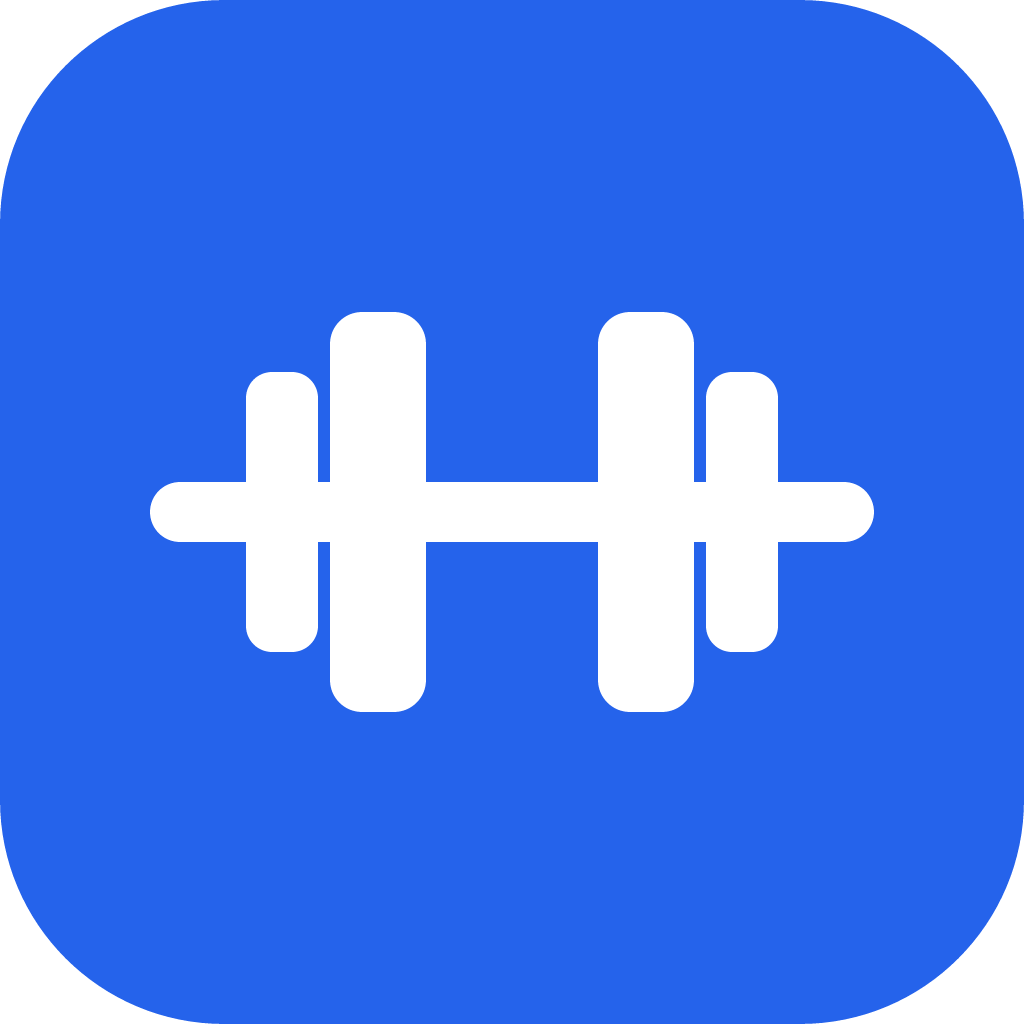
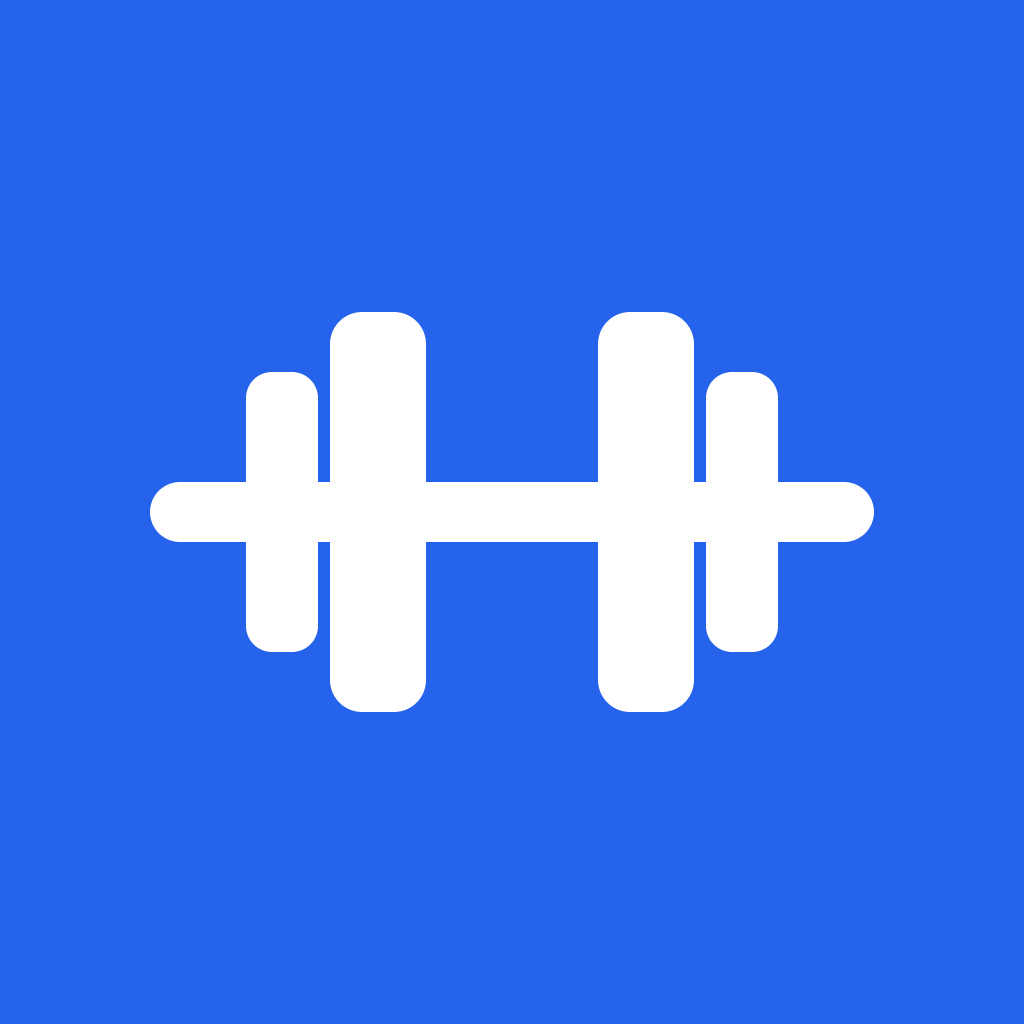
fix: navigation theme via expo-router, single tabs instance after a session, safe-area, image backdrop and polish

diff --git a/src/theme/ThemeProvider.tsx b/src/theme/ThemeProvider.tsx
@@ -1,7 +1,7 @@
 import { createContext, ReactNode, useContext, useEffect, useMemo, useState } from 'react';
-import { useColorScheme } from 'react-native';
+import { Appearance, useColorScheme } from 'react-native';
 import { StatusBar } from 'expo-status-bar';
-import { DarkTheme, DefaultTheme, ThemeProvider as NavigationThemeProvider } from '@react-navigation/native';
+import { DarkTheme, DefaultTheme, ThemeProvider as NavigationThemeProvider } from 'expo-router';
 import { ColorTokens, darkColors, lightColors } from './colors';
 import { loadThemePreference, resolveScheme, saveThemePreference, ThemePreference } from './preference';
 
@@ -22,6 +22,14 @@ export function ThemeProvider({ children }: { children: ReactNode }) {
     loadThemePreference().then(setPreferenceState);
   }, []);
 
+  // Makes native Alerts and the keyboard follow the in-app choice; null restores the system scheme.
+  useEffect(() => {
+    if (typeof Appearance.setColorScheme === 'function') {
+      // The installed typings omit null, which the runtime accepts to restore the system scheme.
+      Appearance.setColorScheme((preference === 'system' ? null : preference) as any);
+    }
+  }, [preference]);
+
   const scheme = resolveScheme(preference, system === 'light' || system === 'dark' ? system : null);
   const colors = scheme === 'dark' ? darkColors : lightColors;
 
@@ -38,19 +46,21 @@ export function ThemeProvider({ children }: { children: ReactNode }) {
     [colors, scheme, preference]
   );
 
-  const base = scheme === 'dark' ? DarkTheme : DefaultTheme;
-  const navigationTheme = {
-    ...base,
-    colors: {
-      ...base.colors,
-      primary: colors.accent,
-      background: colors.background,
-      card: colors.surface,
-      text: colors.text,
-      border: colors.border,
-      notification: colors.danger,
-    },
-  };
+  const navigationTheme = useMemo(() => {
+    const base = scheme === 'dark' ? DarkTheme : DefaultTheme;
+    return {
+      ...base,
+      colors: {
+        ...base.colors,
+        primary: colors.accent,
+        background: colors.background,
+        card: colors.surface,
+        text: colors.text,
+        border: colors.border,
+        notification: colors.danger,
+      },
+    };
+  }, [scheme, colors]);
 
   return (
     <ThemeContext.Provider value={value}>

diff --git a/src/components/ui/Screen.tsx b/src/components/ui/Screen.tsx
@@ -1,15 +1,19 @@
 import { ReactNode, useMemo } from 'react';
 import { ScrollView, StyleSheet, View } from 'react-native';
+import { useSafeAreaInsets } from 'react-native-safe-area-context';
 import { useTheme } from '../../theme/ThemeProvider';
 
 interface Props {
   children: ReactNode;
   scroll?: boolean;
   padded?: boolean;
+  /** Reserve the bottom safe area; for screens outside the tab bar, which already handles it. */
+  safeBottom?: boolean;
 }
 
-export function Screen({ children, scroll = false, padded = true }: Props) {
+export function Screen({ children, scroll = false, padded = true, safeBottom = false }: Props) {
   const { colors } = useTheme();
+  const insets = useSafeAreaInsets();
   const styles = useMemo(
     () =>
       StyleSheet.create({
@@ -22,10 +26,17 @@ export function Screen({ children, scroll = false, padded = true }: Props) {
 
   if (scroll) {
     return (
-      <ScrollView style={styles.container} contentContainerStyle={[styles.content, padded && styles.padded]}>
+      <ScrollView
+        style={styles.container}
+        contentContainerStyle={[styles.content, padded && styles.padded, safeBottom && { paddingBottom: insets.bottom }]}
+      >
         {children}
       </ScrollView>
     );
   }
-  return <View style={[styles.container, padded && styles.padded]}>{children}</View>;
+  return (
+    <View style={[styles.container, padded && styles.padded, safeBottom && { paddingBottom: insets.bottom }]}>
+      {children}
+    </View>
+  );
 }

diff --git a/app/(app)/(tabs)/settings/index.tsx b/app/(app)/(tabs)/settings/index.tsx
@@ -114,7 +114,13 @@ export default function SettingsScreen() {
           <AppText variant="heading" style={styles.title}>
             Recordatorio de entrenamiento
           </AppText>
-          <Switch disabled={!loaded} value={settings.trainingEnabled} onValueChange={(v) => toggle('trainingEnabled', v)} />
+          <Switch
+            disabled={!loaded}
+            trackColor={{ false: colors.surfaceMuted, true: colors.accent }}
+            thumbColor={colors.onDark}
+            value={settings.trainingEnabled}
+            onValueChange={(v) => toggle('trainingEnabled', v)}
+          />
         </View>
         <AppText variant="muted">Te avisa los días que toca entrenar, si todavía no lo hiciste.</AppText>
       </Card>
@@ -124,7 +130,13 @@ export default function SettingsScreen() {
           <AppText variant="heading" style={styles.title}>
             Racha en riesgo
           </AppText>
-          <Switch disabled={!loaded} value={settings.streakEnabled} onValueChange={(v) => toggle('streakEnabled', v)} />
+          <Switch
+            disabled={!loaded}
+            trackColor={{ false: colors.surfaceMuted, true: colors.accent }}
+            thumbColor={colors.onDark}
+            value={settings.streakEnabled}
+            onValueChange={(v) => toggle('streakEnabled', v)}
+          />
         </View>
         <AppText variant="muted">Te avisa el sábado si todavía no entrenaste en la semana.</AppText>
       </Card>

diff --git a/app/_layout.tsx b/app/_layout.tsx
@@ -1,6 +1,7 @@
 import { ReactNode, useEffect } from 'react';
+import { View } from 'react-native';
 import { Slot, useRouter, useSegments } from 'expo-router';
-import { SafeAreaProvider, SafeAreaView } from 'react-native-safe-area-context';
+import { SafeAreaProvider } from 'react-native-safe-area-context';
 import { GestureHandlerRootView } from 'react-native-gesture-handler';
 import { useAuthSession } from '../src/hooks/useAuthSession';
 import { initDatabase, getDatabase } from '../src/lib/sqlite/db';
@@ -15,9 +16,7 @@ initDatabase();
 function ThemedRoot({ children }: { children: ReactNode }) {
   const { colors } = useTheme();
   return (
-    <SafeAreaView style={{ flex: 1, backgroundColor: colors.background }} edges={['bottom']}>
-      {children}
-    </SafeAreaView>
+    <View style={{ flex: 1, backgroundColor: colors.background }}>{children}</View>
   );
 }
 
@@ -52,7 +51,7 @@ export default function RootLayout() {
   useEffect(() => {
     setupNotifications().catch((err) => console.warn('Could not set up notifications', err));
     const subscription = Notifications.addNotificationResponseReceivedListener(() => {
-      router.navigate('/(app)/(tabs)' as any);
+      router.dismissTo('/(app)/(tabs)' as any);
     });
     return () => subscription.remove();
   }, []);

diff --git a/src/theme/colors.ts b/src/theme/colors.ts
@@ -17,18 +17,19 @@ export interface ColorTokens {
   overlay: string;
   scrim: string;
   onDark: string;
+  imageBackdrop: string;
 }
 
 export const lightColors: ColorTokens = {
   background: '#F7F8FA',
   surface: '#FFFFFF',
-  surfaceMuted: '#EEF1F5',
+  surfaceMuted: '#F6F7F9',
   border: '#DDE2E8',
   text: '#111827',
   textMuted: '#6B7280',
   accent: '#2563EB',
   onAccent: '#FFFFFF',
-  accentMuted: '#DBEAFE',
+  accentMuted: '#EFF6FF',
   success: '#107A38',
   successMuted: '#F0FDF4',
   danger: '#C52222',
@@ -38,18 +39,19 @@ export const lightColors: ColorTokens = {
   overlay: 'rgba(0,0,0,0.3)',
   scrim: 'rgba(0,0,0,0.85)',
   onDark: '#FFFFFF',
+  imageBackdrop: '#FFFFFF',
 };
 
 export const darkColors: ColorTokens = {
   background: '#0B0F14',
   surface: '#151A21',
-  surfaceMuted: '#1E252E',
+  surfaceMuted: '#181E26',
   border: '#2A323D',
   text: '#F3F4F6',
   textMuted: '#9CA3AF',
   accent: '#3B82F6',
   onAccent: '#0B0F14',
-  accentMuted: '#1E3A5F',
+  accentMuted: '#0D1D33',
   success: '#22C55E',
   successMuted: '#052E1A',
   danger: '#F87171',
@@ -59,4 +61,5 @@ export const darkColors: ColorTokens = {
   overlay: 'rgba(0,0,0,0.6)',
   scrim: 'rgba(0,0,0,0.85)',
   onDark: '#FFFFFF',
+  imageBackdrop: '#FFFFFF',
 };

diff --git a/app/(app)/(tabs)/history/[sessionId].tsx b/app/(app)/(tabs)/history/[sessionId].tsx
@@ -24,6 +24,9 @@ export default function SessionHistoryDetail() {
   if (isLoading && !detail) {
     return (
       <Screen>
+        <Pressable onPress={() => router.back()} hitSlop={12} style={styles.backRow}>
+          <AppText style={styles.back}>←</AppText>
+        </Pressable>
         <View style={styles.centered}>
           <ActivityIndicator color={colors.accent} />
         </View>
@@ -34,6 +37,9 @@ export default function SessionHistoryDetail() {
   if (!detail) {
     return (
       <Screen>
+        <Pressable onPress={() => router.back()} hitSlop={12} style={styles.backRow}>
+          <AppText style={styles.back}>←</AppText>
+        </Pressable>
         <View style={styles.centered}>
           <AppText variant="muted" style={styles.message}>
             {error ?? 'Conectate para ver tu historial'}

diff --git a/app/(app)/(tabs)/progress/[exerciseId].tsx b/app/(app)/(tabs)/progress/[exerciseId].tsx
@@ -36,6 +36,9 @@ export default function ExerciseProgressDetail() {
   if (isLoading && rows.length === 0) {
     return (
       <Screen>
+        <Pressable onPress={() => router.back()} hitSlop={12} style={styles.backRow}>
+          <AppText style={styles.back}>←</AppText>
+        </Pressable>
         <View style={styles.centered}>
           <ActivityIndicator color={colors.accent} />
         </View>
@@ -46,6 +49,9 @@ export default function ExerciseProgressDetail() {
   if (error) {
     return (
       <Screen>
+        <Pressable onPress={() => router.back()} hitSlop={12} style={styles.backRow}>
+          <AppText style={styles.back}>←</AppText>
+        </Pressable>
         <View style={styles.centered}>
           <AppText variant="muted" style={styles.message}>
             {error}

diff --git a/app/(app)/(tabs)/index.tsx b/app/(app)/(tabs)/index.tsx
@@ -61,11 +61,10 @@ export default function Home() {
     }
   }
 
-
   return (
     <Screen scroll padded={false}>
       <View style={styles.container}>
-        {loading && <ActivityIndicator />}
+        {loading && <ActivityIndicator color={colors.accent} />}
         {error && <AppText color="danger">{error}</AppText>}
 
         {!loading && !error && (
@@ -145,7 +144,7 @@ export default function Home() {
               </>
             ) : (
               <Card style={styles.fullWidth}>
-                <AppText>No tenés una rutina activa. Activá una desde el menú "Rutinas".</AppText>
+                <AppText>No tenés una rutina activa. Activá una desde la pestaña Rutinas.</AppText>
               </Card>
             )}
           </>

diff --git a/app/(app)/session/[sessionId].tsx b/app/(app)/session/[sessionId].tsx
@@ -38,19 +38,19 @@ export default function SessionScreen() {
 
   async function handleFinish() {
     await completeSession();
-    router.replace('/(app)/(tabs)' as any);
+    router.dismissTo('/(app)/(tabs)' as any);
   }
 
   if (loading) {
     return (
-      <Screen>
+      <Screen safeBottom>
         <ActivityIndicator color={colors.accent} />
       </Screen>
     );
   }
 
   return (
-    <Screen padded={false}>
+    <Screen padded={false} safeBottom>
       <ScrollView style={styles.scroll} contentContainerStyle={styles.content}>
         <AppText variant="title" style={styles.title}>
           {resolvedDayName ?? dayName ?? 'Entrenamiento'}

diff --git a/src/components/SessionExerciseCard.tsx b/src/components/SessionExerciseCard.tsx
@@ -178,7 +178,7 @@ function makeStyles(c: ColorTokens) {
     header: { flexDirection: 'row', alignItems: 'center', gap: 12 },
     headerText: { flex: 1, gap: 2 },
     viewerBackdrop: { flex: 1, backgroundColor: c.scrim, alignItems: 'center', justifyContent: 'center', gap: 12 },
-    viewerImage: { width: '90%', aspectRatio: 1, backgroundColor: c.surface, borderRadius: 8 },
+    viewerImage: { width: '90%', aspectRatio: 1, backgroundColor: c.imageBackdrop, borderRadius: 8 },
     viewerCaption: { color: c.onDark },
     label: { marginTop: 4 },
     activeSetTitle: { marginTop: 4 },

diff --git a/src/components/ExerciseThumbnail.tsx b/src/components/ExerciseThumbnail.tsx
@@ -16,7 +16,7 @@ export function ExerciseThumbnail({ imagePath, muscle, size = 40 }: { imagePath:
     return (
       <Image
         source={{ uri }}
-        style={{ width: size, height: size, borderRadius: 8, backgroundColor: colors.surfaceMuted }}
+        style={{ width: size, height: size, borderRadius: 8, backgroundColor: colors.imageBackdrop }}
         resizeMode="contain"
         onError={() => setFailed(true)}
         accessibilityLabel={`Ilustración de ${label}`}

diff --git a/scripts/build-icons.ts b/scripts/build-icons.ts
@@ -12,7 +12,7 @@ function render(svgName: string, outName: string, size: number): void {
 }
 
 render('icon.svg', 'icon.png', 1024);
-render('icon.svg', 'favicon.png', 48);
-render('icon.svg', 'splash.png', 1024);
+render('icon-rounded.svg', 'favicon.png', 48);
+render('icon-rounded.svg', 'splash.png', 1024);
 render('adaptive-foreground.svg', 'adaptive-icon.png', 1024);
 render('notification.svg', 'notification-icon.png', 96);
